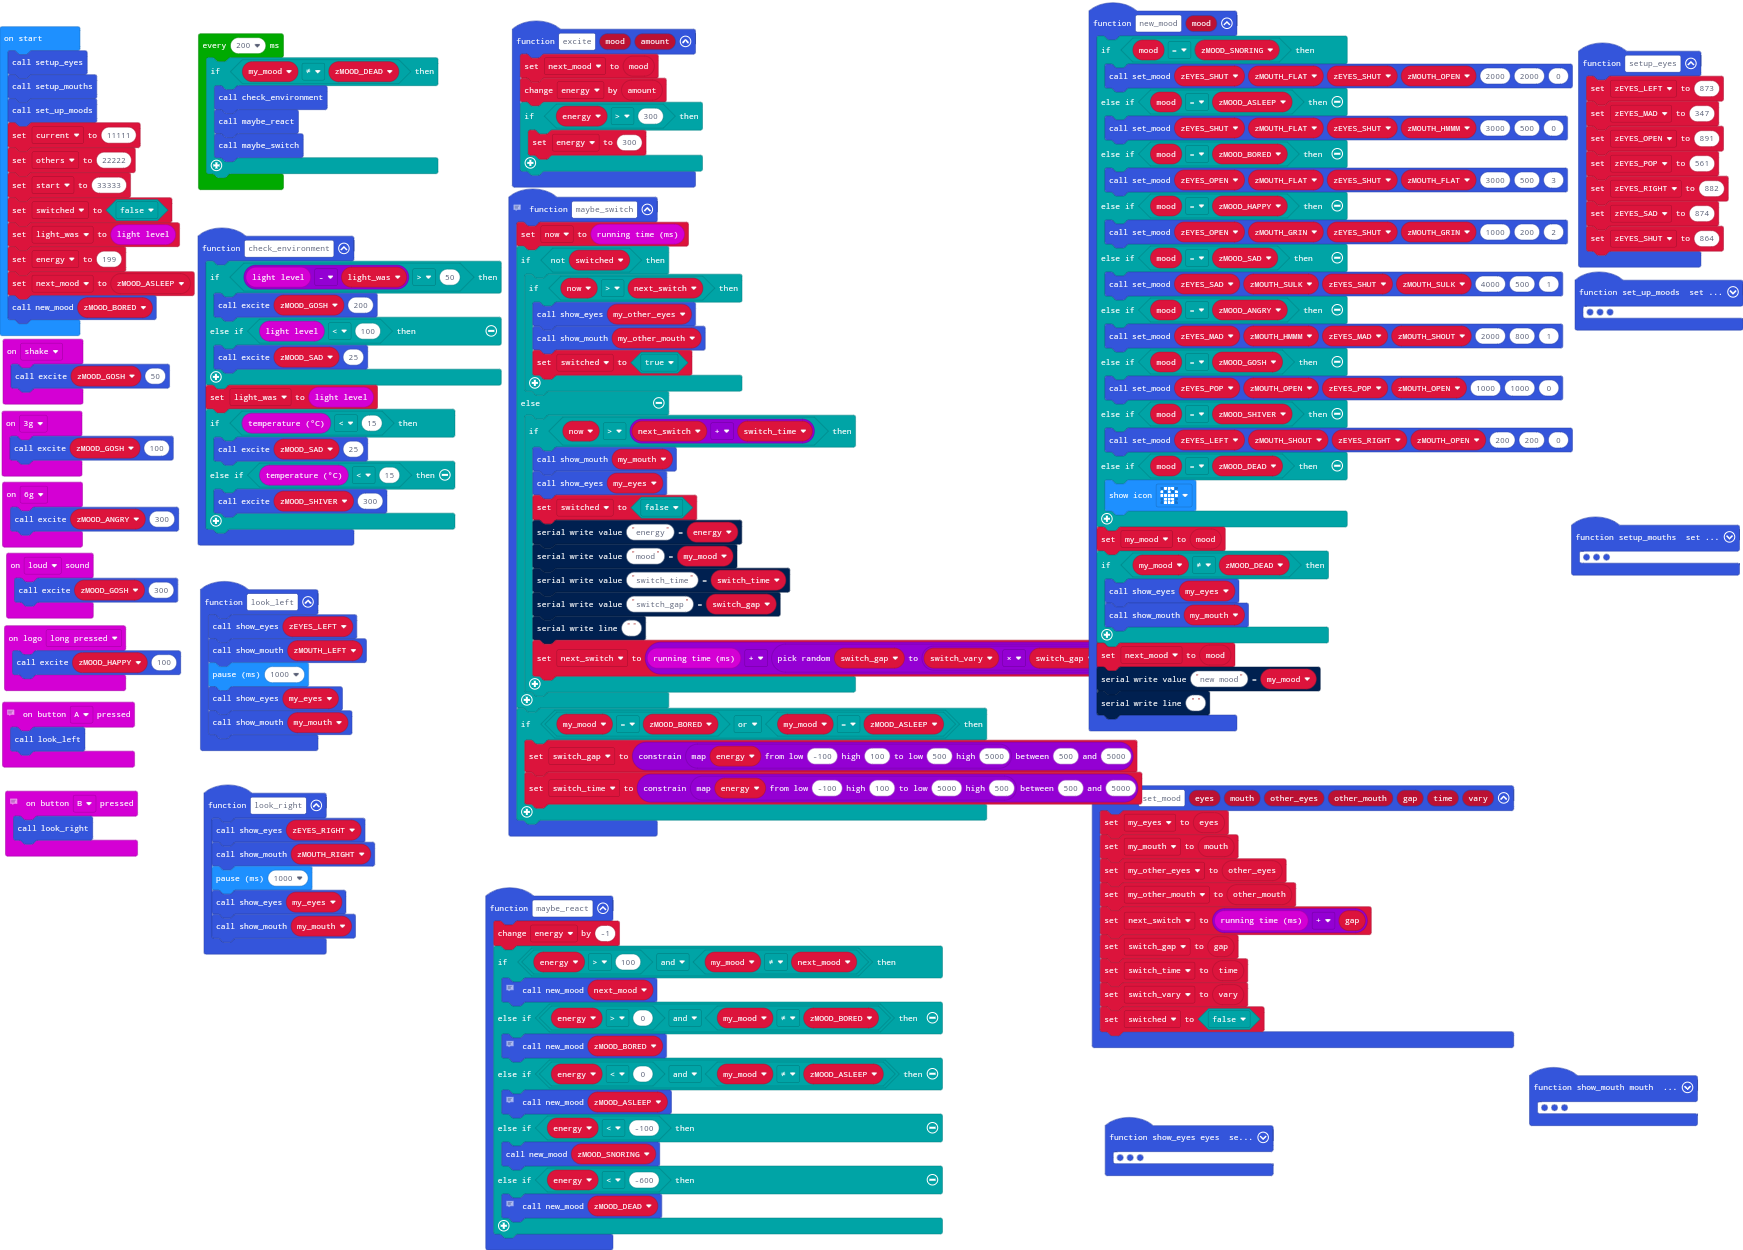
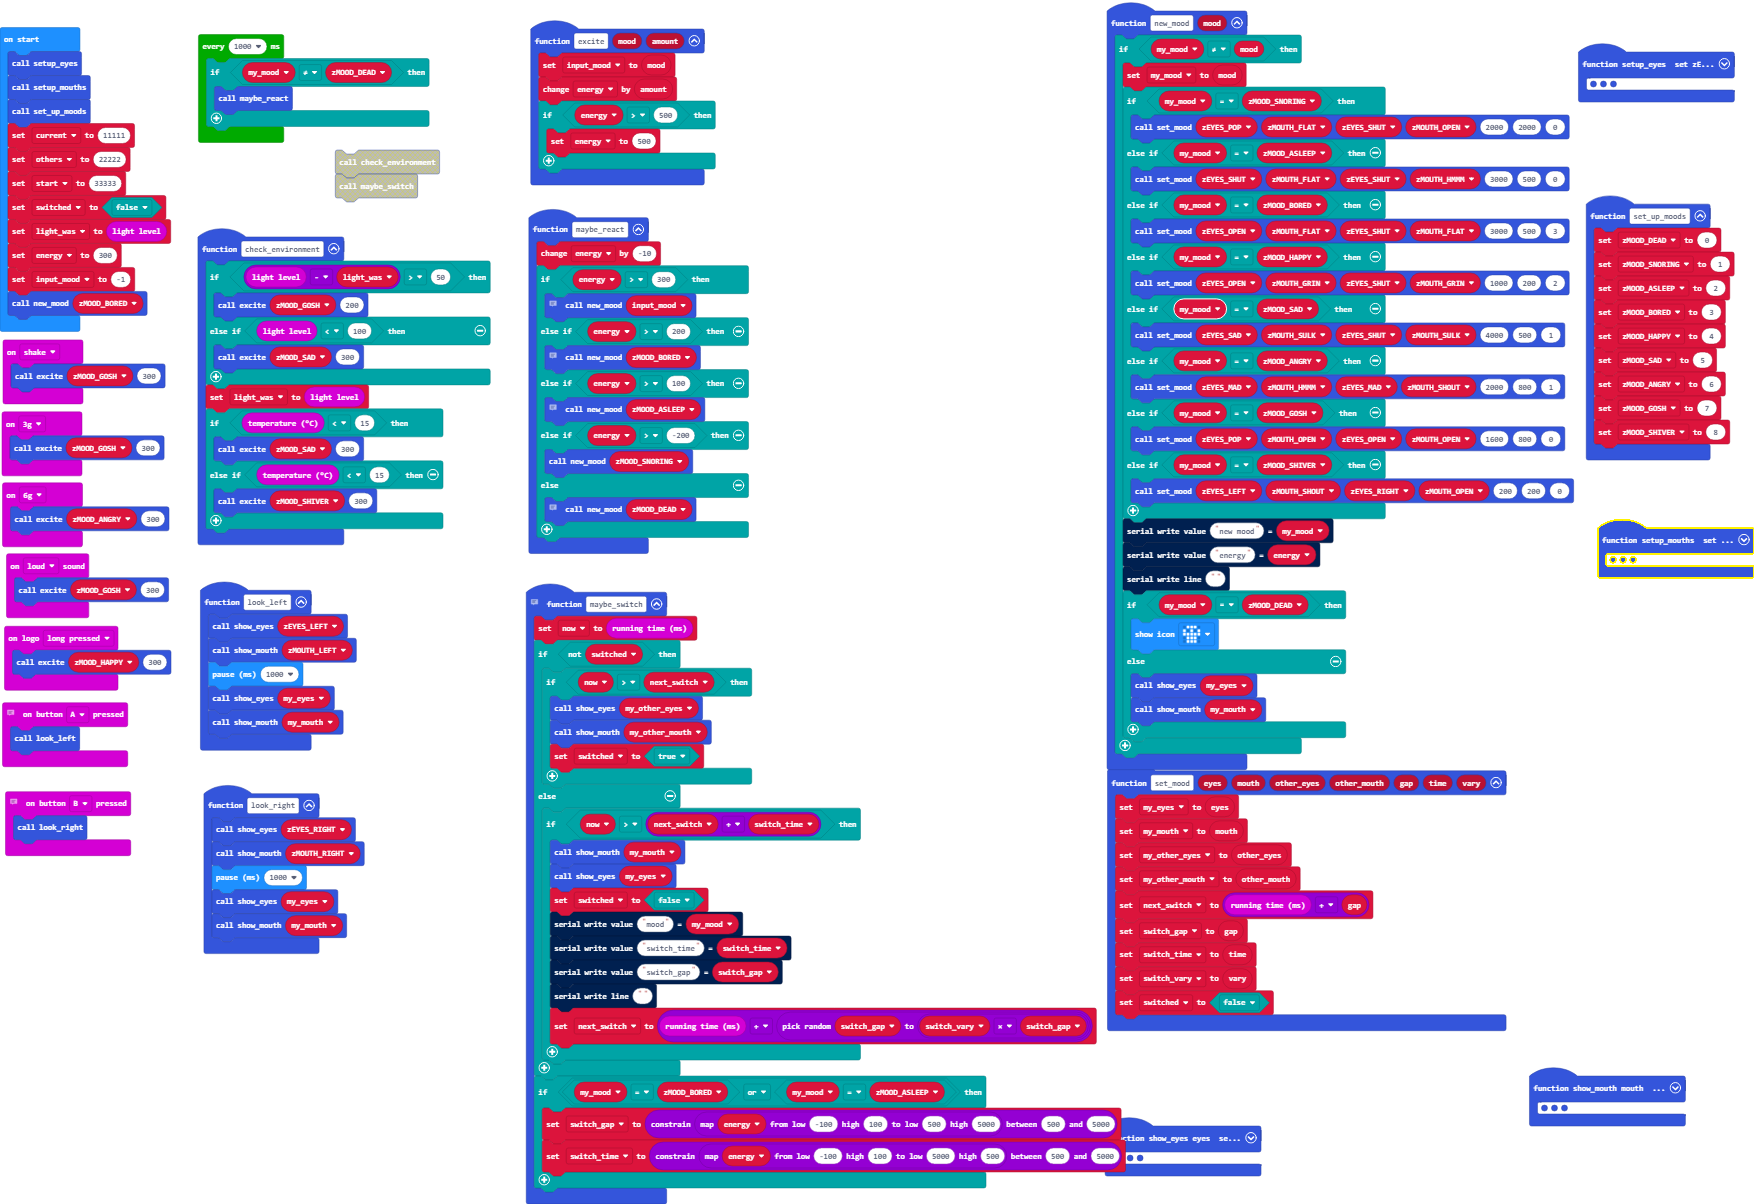
fixed snoring

diff --git a/main.ts b/main.ts
@@ -1,12 +1,13 @@
 function set_up_moods () {
     zMOOD_DEAD = 0
-    zMOOD_ASLEEP = 1
-    zMOOD_BORED = 2
-    zMOOD_HAPPY = 3
-    zMOOD_SAD = 4
-    zMOOD_ANGRY = 5
-    zMOOD_GOSH = 6
-    zMOOD_SHIVER = 7
+    zMOOD_SNORING = 1
+    zMOOD_ASLEEP = 2
+    zMOOD_BORED = 3
+    zMOOD_HAPPY = 4
+    zMOOD_SAD = 5
+    zMOOD_ANGRY = 6
+    zMOOD_GOSH = 7
+    zMOOD_SHIVER = 8
 }
 function show_eyes (eyes: number) {
     z_pixels = eyes
@@ -22,7 +23,7 @@ function show_eyes (eyes: number) {
     }
 }
 input.onLogoEvent(TouchButtonEvent.LongPressed, function () {
-    excite(zMOOD_HAPPY, 100)
+    excite(zMOOD_HAPPY, 300)
 })
 // Sometime, we should add some useful behaviour for button A
 input.onButtonPressed(Button.A, function () {
@@ -36,10 +37,10 @@ function look_right () {
     show_mouth(my_mouth)
 }
 function excite (mood: number, amount: number) {
-    next_mood = mood
+    input_mood = mood
     energy += amount
-    if (energy > 300) {
-        energy = 300
+    if (energy > 500) {
+        energy = 500
     }
 }
 function setup_eyes () {
@@ -84,7 +85,6 @@ function maybe_switch () {
             show_mouth(my_mouth)
             show_eyes(my_eyes)
             switched = false
-            serial.writeValue("energy", energy)
             serial.writeValue("mood", my_mood)
             serial.writeValue("switch_time", switch_time)
             serial.writeValue("switch_gap", switch_gap)
@@ -112,7 +112,7 @@ input.onButtonPressed(Button.B, function () {
     look_right()
 })
 input.onGesture(Gesture.Shake, function () {
-    excite(zMOOD_GOSH, 50)
+    excite(zMOOD_GOSH, 300)
 })
 function set_mood (eyes: number, mouth: number, other_eyes: number, other_mouth: number, gap: number, time: number, vary: number) {
     my_eyes = eyes
@@ -126,19 +126,19 @@ function set_mood (eyes: number, mouth: number, other_eyes: number, other_mouth:
     switched = false
 }
 function maybe_react () {
-    energy += -1
-    if (energy > 100 && my_mood != next_mood) {
-        // react to input
-        new_mood(next_mood)
-    } else if (energy > 0 && my_mood != zMOOD_BORED) {
+    energy += -10
+    if (energy > 300) {
+        // finally react to exciting input
+        new_mood(input_mood)
+    } else if (energy > 200) {
         // get bored (or wake up)
         new_mood(zMOOD_BORED)
-    } else if (energy < 0 && my_mood != zMOOD_ASLEEP) {
+    } else if (energy > 100) {
         // fall asleep
         new_mood(zMOOD_ASLEEP)
-    } else if (energy < -100) {
+    } else if (energy > -200) {
         new_mood(zMOOD_SNORING)
-    } else if (energy < -600) {
+    } else {
         // die of neglect!
         // ---permanently!
         new_mood(zMOOD_DEAD)
@@ -158,46 +158,48 @@ function setup_mouths () {
     zMOUTH_KISS = 10378
 }
 input.onGesture(Gesture.ThreeG, function () {
-    excite(zMOOD_GOSH, 100)
+    excite(zMOOD_GOSH, 300)
 })
 function new_mood (mood: number) {
-    if (mood == zMOOD_SNORING) {
-        set_mood(zEYES_SHUT, zMOUTH_FLAT, zEYES_SHUT, zMOUTH_OPEN, 2000, 2000, 0)
-    } else if (mood == zMOOD_ASLEEP) {
-        set_mood(zEYES_SHUT, zMOUTH_FLAT, zEYES_SHUT, zMOUTH_HMMM, 3000, 500, 0)
-    } else if (mood == zMOOD_BORED) {
-        set_mood(zEYES_OPEN, zMOUTH_FLAT, zEYES_SHUT, zMOUTH_FLAT, 3000, 500, 3)
-    } else if (mood == zMOOD_HAPPY) {
-        set_mood(zEYES_OPEN, zMOUTH_GRIN, zEYES_SHUT, zMOUTH_GRIN, 1000, 200, 2)
-    } else if (mood == zMOOD_SAD) {
-        set_mood(zEYES_SAD, zMOUTH_SULK, zEYES_SHUT, zMOUTH_SULK, 4000, 500, 1)
-    } else if (mood == zMOOD_ANGRY) {
-        set_mood(zEYES_MAD, zMOUTH_HMMM, zEYES_MAD, zMOUTH_SHOUT, 2000, 800, 1)
-    } else if (mood == zMOOD_GOSH) {
-        set_mood(zEYES_POP, zMOUTH_OPEN, zEYES_POP, zMOUTH_OPEN, 1000, 1000, 0)
-    } else if (mood == zMOOD_SHIVER) {
-        set_mood(zEYES_LEFT, zMOUTH_SHOUT, zEYES_RIGHT, zMOUTH_OPEN, 200, 200, 0)
-    } else if (mood == zMOOD_DEAD) {
-        basic.showIcon(IconNames.Skull)
+    if (my_mood != mood) {
+        my_mood = mood
+        if (my_mood == zMOOD_SNORING) {
+            set_mood(zEYES_POP, zMOUTH_FLAT, zEYES_SHUT, zMOUTH_OPEN, 2000, 2000, 0)
+        } else if (my_mood == zMOOD_ASLEEP) {
+            set_mood(zEYES_SHUT, zMOUTH_FLAT, zEYES_SHUT, zMOUTH_HMMM, 3000, 500, 0)
+        } else if (my_mood == zMOOD_BORED) {
+            set_mood(zEYES_OPEN, zMOUTH_FLAT, zEYES_SHUT, zMOUTH_FLAT, 3000, 500, 3)
+        } else if (my_mood == zMOOD_HAPPY) {
+            set_mood(zEYES_OPEN, zMOUTH_GRIN, zEYES_SHUT, zMOUTH_GRIN, 1000, 200, 2)
+        } else if (my_mood == zMOOD_SAD) {
+            set_mood(zEYES_SAD, zMOUTH_SULK, zEYES_SHUT, zMOUTH_SULK, 4000, 500, 1)
+        } else if (my_mood == zMOOD_ANGRY) {
+            set_mood(zEYES_MAD, zMOUTH_HMMM, zEYES_MAD, zMOUTH_SHOUT, 2000, 800, 1)
+        } else if (my_mood == zMOOD_GOSH) {
+            set_mood(zEYES_POP, zMOUTH_OPEN, zEYES_OPEN, zMOUTH_OPEN, 1600, 800, 0)
+        } else if (my_mood == zMOOD_SHIVER) {
+            set_mood(zEYES_LEFT, zMOUTH_SHOUT, zEYES_RIGHT, zMOUTH_OPEN, 200, 200, 0)
+        }
+        serial.writeValue("new mood", my_mood)
+        serial.writeValue("energy", energy)
+        serial.writeLine("")
+        if (my_mood == zMOOD_DEAD) {
+            basic.showIcon(IconNames.Skull)
+        } else {
+            show_eyes(my_eyes)
+            show_mouth(my_mouth)
+        }
     }
-    my_mood = mood
-    if (my_mood != zMOOD_DEAD) {
-        show_eyes(my_eyes)
-        show_mouth(my_mouth)
-    }
-    next_mood = mood
-    serial.writeValue("new mood", my_mood)
-    serial.writeLine("")
 }
 function check_environment () {
     if (input.lightLevel() - light_was > 50) {
         excite(zMOOD_GOSH, 200)
     } else if (input.lightLevel() < 100) {
-        excite(zMOOD_SAD, 25)
+        excite(zMOOD_SAD, 300)
     }
     light_was = input.lightLevel()
     if (input.temperature() < 15) {
-        excite(zMOOD_SAD, 25)
+        excite(zMOOD_SAD, 300)
     } else if (input.temperature() < 15) {
         excite(zMOOD_SHIVER, 300)
     }
@@ -211,7 +213,6 @@ let zMOUTH_OK = 0
 let zMOUTH_HMMM = 0
 let zMOUTH_GRIN = 0
 let zMOUTH_FLAT = 0
-let zMOOD_SNORING = 0
 let zMOUTH_LEFT = 0
 let switch_vary = 0
 let switch_gap = 0
@@ -239,10 +240,11 @@ let zMOOD_GOSH = 0
 let zMOOD_ANGRY = 0
 let zMOOD_SAD = 0
 let zMOOD_HAPPY = 0
+let zMOOD_ASLEEP = 0
+let zMOOD_SNORING = 0
 let zMOOD_DEAD = 0
 let zMOOD_BORED = 0
-let zMOOD_ASLEEP = 0
-let next_mood = 0
+let input_mood = 0
 let energy = 0
 let light_was = 0
 let switched = false
@@ -254,13 +256,11 @@ let others = 22222
 let start = 33333
 switched = false
 light_was = input.lightLevel()
-energy = 199
-next_mood = zMOOD_ASLEEP
+energy = 300
+input_mood = -1
 new_mood(zMOOD_BORED)
-loops.everyInterval(200, function () {
+loops.everyInterval(1000, function () {
     if (my_mood != zMOOD_DEAD) {
-        check_environment()
         maybe_react()
-        maybe_switch()
     }
 })
